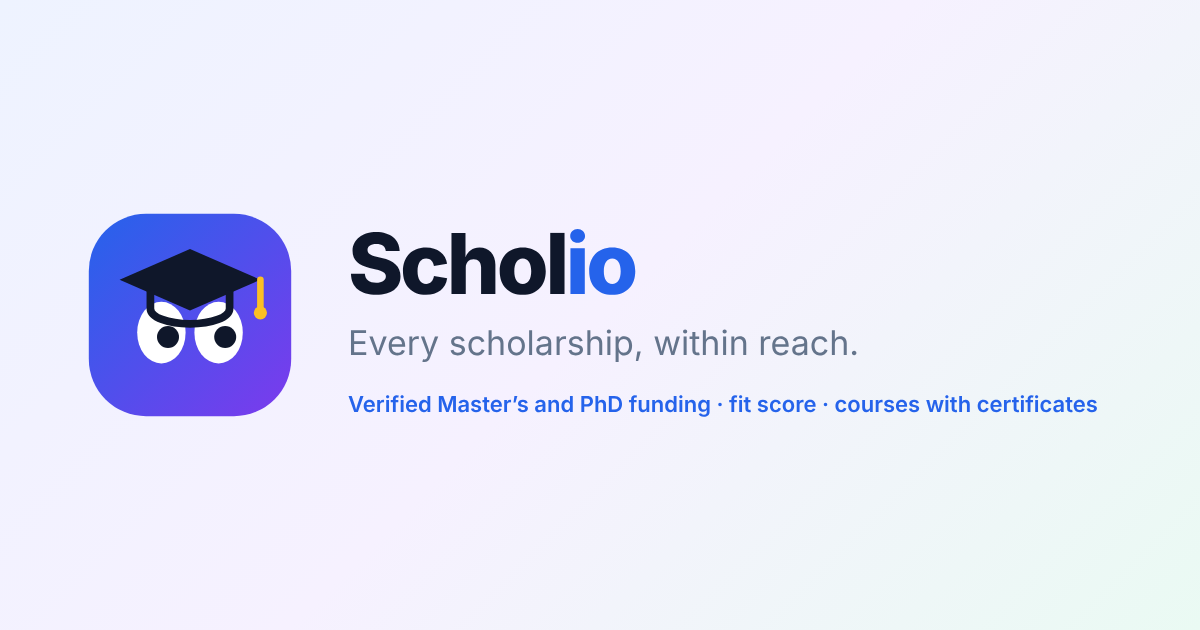
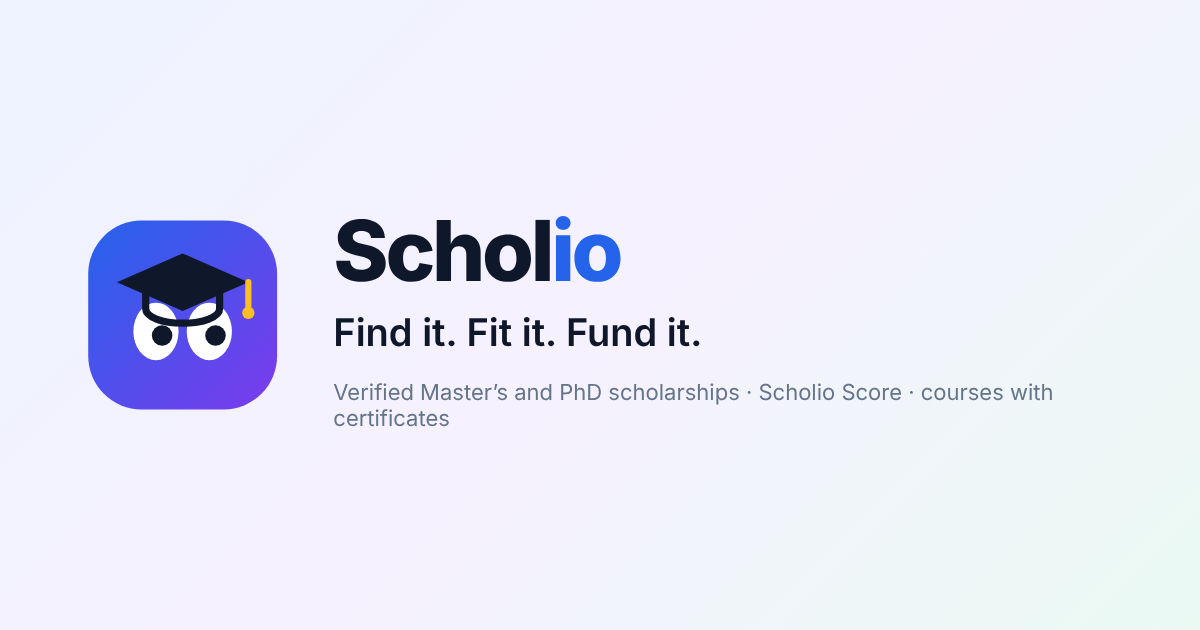
New tagline: Find it. Fit it. Fund it.
Claude-Session: https://claude.ai/code/session_017L571XpD2DDBJsY1ySKvZx

diff --git a/404.html b/404.html
@@ -3,11 +3,11 @@
 <head>
 <meta charset="utf-8">
 <meta name="viewport" content="width=device-width,initial-scale=1,viewport-fit=cover">
-<title>Scholio: every scholarship, within reach</title>
+<title>Scholio: find it, fit it, fund it</title>
 <meta name="description" content="A global index of Master's and PhD scholarships with verified deadlines, a fit score for your profile, and short courses with certificates. Apply on the funder's own site.">
 <link rel="canonical" href="https://nirajbhusal.github.io/scholio/">
 <base href="/scholio/">
-<meta property="og:title" content="Scholio: every scholarship, within reach">
+<meta property="og:title" content="Scholio: find it, fit it, fund it">
 <meta property="og:description" content="Verified Master's and PhD scholarships worldwide, a fit score for your profile, and courses that close the gaps.">
 <meta property="og:type" content="website">
 <meta property="og:url" content="https://nirajbhusal.github.io/scholio/">
@@ -483,7 +483,7 @@ footer .links{display:flex;gap:12px;margin-left:auto}
   <symbol id="il-signin" viewBox="0 0 220 140"><rect x="30" y="20" width="160" height="100" rx="14"/><circle cx="70" cy="56" r="14"/><path d="M46 92c4-12 12-18 24-18s20 6 24 18"/><rect x="108" y="44" width="62" height="8" rx="4"/><rect x="108" y="60" width="48" height="8" rx="4"/><rect x="108" y="78" width="40" height="12" rx="6"/><path d="M180 10l4 8 8 1-6 6 2 8-8-4-8 4 2-8-6-6 8-1z"/></symbol>
 </svg>
 
-<div id="intro" aria-hidden="true"><div><svg class="mascot m" width="120" height="120" viewBox="0 0 100 100"><use href="#logo"/></svg><div class="w">Schol<em>io</em><small>Every scholarship, within reach.</small></div></div></div>
+<div id="intro" aria-hidden="true"><div><svg class="mascot m" width="120" height="120" viewBox="0 0 100 100"><use href="#logo"/></svg><div class="w">Schol<em>io</em><small>Find it. Fit it. Fund it.</small></div></div></div>
 
 <header><div class="wrap bar">
   <button class="brand" data-view="home"><svg class="mascot" width="32" height="32" viewBox="0 0 100 100"><use href="#logo"/></svg><span>Schol<em>io</em></span></button>
@@ -508,7 +508,7 @@ footer .links{display:flex;gap:12px;margin-left:auto}
 
 <!-- HOME -->
 <section id="view-home">
-  <div class="brandhero"><svg class="mascot" width="88" height="88" viewBox="0 0 100 100"><use href="#logo"/></svg><div class="wm">Schol<em>io</em></div><div class="tgl">Every scholarship, within reach.</div><div class="sub">Verified Master's and PhD funding worldwide, a readiness score you can trust, and the tools to win it.</div></div>
+  <div class="brandhero"><svg class="mascot" width="88" height="88" viewBox="0 0 100 100"><use href="#logo"/></svg><div class="wm">Schol<em>io</em></div><div class="tgl">Find it. Fit it. Fund it.</div><div class="sub">Verified Master's and PhD funding worldwide, a readiness score you can trust, and the tools to win it.</div></div>
   <div class="hero">
     <div class="lead">
       <div class="kicker"><svg class="i s"><use href="#ic-sparkle"/></svg><span id="greet">Master's and PhD funding, worldwide</span></div>
@@ -912,7 +912,7 @@ footer .links{display:flex;gap:12px;margin-left:auto}
 
 </main>
 
-<footer><div class="wrap brandfoot"><svg class="mascot" width="64" height="64" viewBox="0 0 100 100"><use href="#logo"/></svg><div class="wm">Schol<em>io</em></div><div class="tgl">Every scholarship, within reach.</div><div class="links"><a href="about/" data-view="about">About</a><a href="score/" data-view="score">Scholio Score</a><a href="funders/" data-view="funders">Funders</a><a href="https://github.com/nirajbhusal/scholio" target="_blank" rel="noopener">GitHub</a></div></div><div class="wrap"><span>Scholio is an independent index. Every listing links to its official page; "Verified" means we checked the deadline and terms there on the date shown. Found an error? <a href="https://github.com/nirajbhusal/scholio/issues" target="_blank" rel="noopener">Report it</a>.</span></div></footer>
+<footer><div class="wrap brandfoot"><svg class="mascot" width="64" height="64" viewBox="0 0 100 100"><use href="#logo"/></svg><div class="wm">Schol<em>io</em></div><div class="tgl">Find it. Fit it. Fund it.</div><div class="links"><a href="about/" data-view="about">About</a><a href="score/" data-view="score">Scholio Score</a><a href="funders/" data-view="funders">Funders</a><a href="https://github.com/nirajbhusal/scholio" target="_blank" rel="noopener">GitHub</a></div></div><div class="wrap"><span>Scholio is an independent index. Every listing links to its official page; "Verified" means we checked the deadline and terms there on the date shown. Found an error? <a href="https://github.com/nirajbhusal/scholio/issues" target="_blank" rel="noopener">Report it</a>.</span></div></footer>
 
 <div class="sheet" id="sheet" aria-hidden="true"><div class="back" id="sheet-back"></div>
   <div class="panel" role="dialog" aria-modal="true" aria-labelledby="d-title"><button class="close" id="sheet-close" aria-label="Close">×</button><div id="detail"></div></div></div>

diff --git a/index.html b/index.html
@@ -3,11 +3,11 @@
 <head>
 <meta charset="utf-8">
 <meta name="viewport" content="width=device-width,initial-scale=1,viewport-fit=cover">
-<title>Scholio: every scholarship, within reach</title>
+<title>Scholio: find it, fit it, fund it</title>
 <meta name="description" content="A global index of Master's and PhD scholarships with verified deadlines, a fit score for your profile, and short courses with certificates. Apply on the funder's own site.">
 <link rel="canonical" href="https://nirajbhusal.github.io/scholio/">
 <base href="/scholio/">
-<meta property="og:title" content="Scholio: every scholarship, within reach">
+<meta property="og:title" content="Scholio: find it, fit it, fund it">
 <meta property="og:description" content="Verified Master's and PhD scholarships worldwide, a fit score for your profile, and courses that close the gaps.">
 <meta property="og:type" content="website">
 <meta property="og:url" content="https://nirajbhusal.github.io/scholio/">
@@ -483,7 +483,7 @@ footer .links{display:flex;gap:12px;margin-left:auto}
   <symbol id="il-signin" viewBox="0 0 220 140"><rect x="30" y="20" width="160" height="100" rx="14"/><circle cx="70" cy="56" r="14"/><path d="M46 92c4-12 12-18 24-18s20 6 24 18"/><rect x="108" y="44" width="62" height="8" rx="4"/><rect x="108" y="60" width="48" height="8" rx="4"/><rect x="108" y="78" width="40" height="12" rx="6"/><path d="M180 10l4 8 8 1-6 6 2 8-8-4-8 4 2-8-6-6 8-1z"/></symbol>
 </svg>
 
-<div id="intro" aria-hidden="true"><div><svg class="mascot m" width="120" height="120" viewBox="0 0 100 100"><use href="#logo"/></svg><div class="w">Schol<em>io</em><small>Every scholarship, within reach.</small></div></div></div>
+<div id="intro" aria-hidden="true"><div><svg class="mascot m" width="120" height="120" viewBox="0 0 100 100"><use href="#logo"/></svg><div class="w">Schol<em>io</em><small>Find it. Fit it. Fund it.</small></div></div></div>
 
 <header><div class="wrap bar">
   <button class="brand" data-view="home"><svg class="mascot" width="32" height="32" viewBox="0 0 100 100"><use href="#logo"/></svg><span>Schol<em>io</em></span></button>
@@ -508,7 +508,7 @@ footer .links{display:flex;gap:12px;margin-left:auto}
 
 <!-- HOME -->
 <section id="view-home">
-  <div class="brandhero"><svg class="mascot" width="88" height="88" viewBox="0 0 100 100"><use href="#logo"/></svg><div class="wm">Schol<em>io</em></div><div class="tgl">Every scholarship, within reach.</div><div class="sub">Verified Master's and PhD funding worldwide, a readiness score you can trust, and the tools to win it.</div></div>
+  <div class="brandhero"><svg class="mascot" width="88" height="88" viewBox="0 0 100 100"><use href="#logo"/></svg><div class="wm">Schol<em>io</em></div><div class="tgl">Find it. Fit it. Fund it.</div><div class="sub">Verified Master's and PhD funding worldwide, a readiness score you can trust, and the tools to win it.</div></div>
   <div class="hero">
     <div class="lead">
       <div class="kicker"><svg class="i s"><use href="#ic-sparkle"/></svg><span id="greet">Master's and PhD funding, worldwide</span></div>
@@ -912,7 +912,7 @@ footer .links{display:flex;gap:12px;margin-left:auto}
 
 </main>
 
-<footer><div class="wrap brandfoot"><svg class="mascot" width="64" height="64" viewBox="0 0 100 100"><use href="#logo"/></svg><div class="wm">Schol<em>io</em></div><div class="tgl">Every scholarship, within reach.</div><div class="links"><a href="about/" data-view="about">About</a><a href="score/" data-view="score">Scholio Score</a><a href="funders/" data-view="funders">Funders</a><a href="https://github.com/nirajbhusal/scholio" target="_blank" rel="noopener">GitHub</a></div></div><div class="wrap"><span>Scholio is an independent index. Every listing links to its official page; "Verified" means we checked the deadline and terms there on the date shown. Found an error? <a href="https://github.com/nirajbhusal/scholio/issues" target="_blank" rel="noopener">Report it</a>.</span></div></footer>
+<footer><div class="wrap brandfoot"><svg class="mascot" width="64" height="64" viewBox="0 0 100 100"><use href="#logo"/></svg><div class="wm">Schol<em>io</em></div><div class="tgl">Find it. Fit it. Fund it.</div><div class="links"><a href="about/" data-view="about">About</a><a href="score/" data-view="score">Scholio Score</a><a href="funders/" data-view="funders">Funders</a><a href="https://github.com/nirajbhusal/scholio" target="_blank" rel="noopener">GitHub</a></div></div><div class="wrap"><span>Scholio is an independent index. Every listing links to its official page; "Verified" means we checked the deadline and terms there on the date shown. Found an error? <a href="https://github.com/nirajbhusal/scholio/issues" target="_blank" rel="noopener">Report it</a>.</span></div></footer>
 
 <div class="sheet" id="sheet" aria-hidden="true"><div class="back" id="sheet-back"></div>
   <div class="panel" role="dialog" aria-modal="true" aria-labelledby="d-title"><button class="close" id="sheet-close" aria-label="Close">×</button><div id="detail"></div></div></div>
